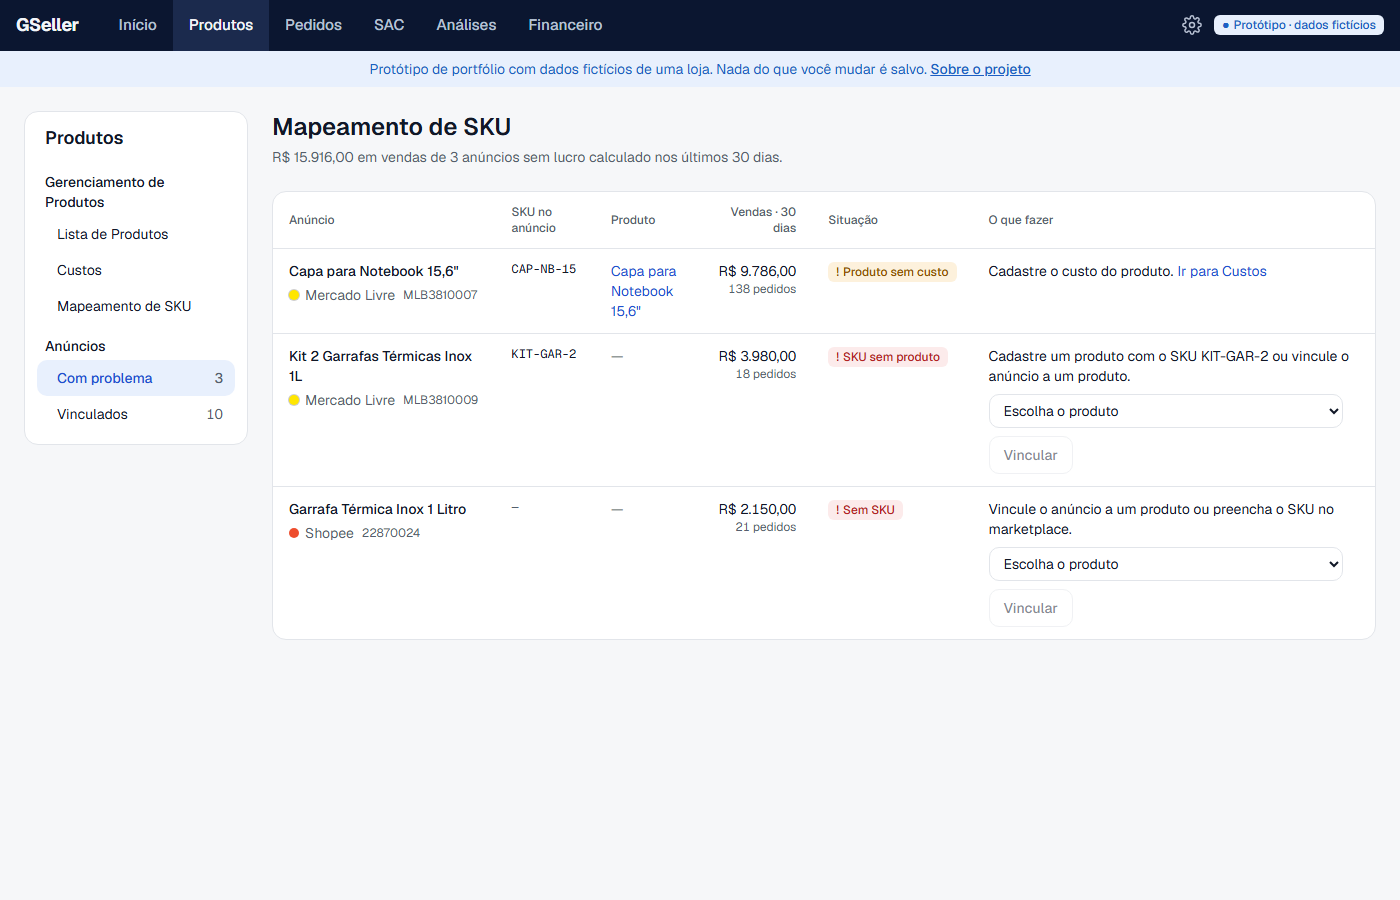
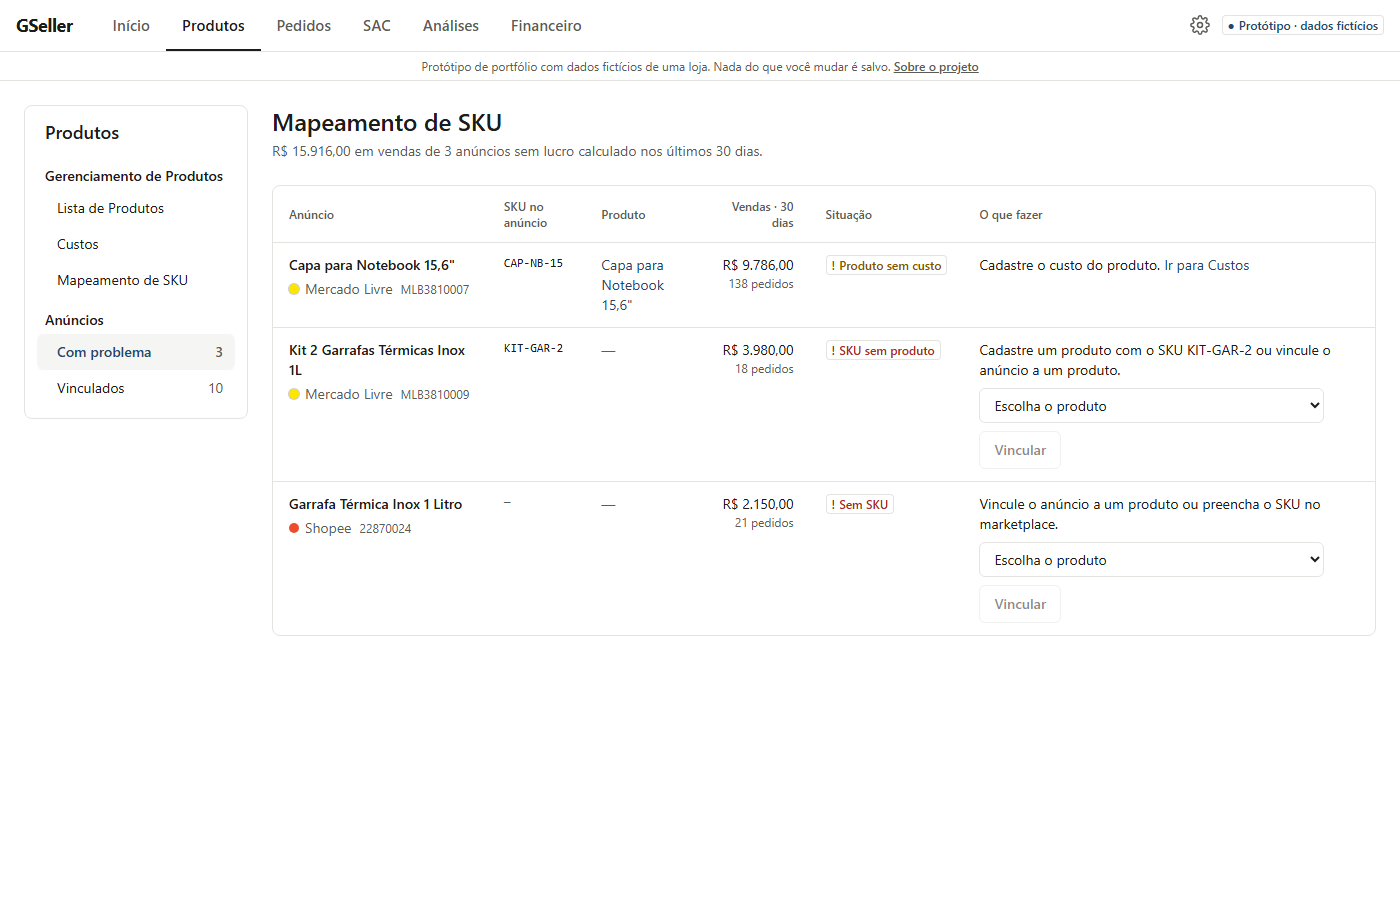
feat(ui): visual mais simples e link público da demonstração

diff --git a/frontend/src/app/globals.css b/frontend/src/app/globals.css
@@ -1,7 +1,8 @@
 @import "tailwindcss";
 
 /*
- * Design System v0.1 — tokens semânticos (Master Plan, Bloco 16).
+ * Design System v0.2 — tokens semânticos (Master Plan, Bloco 16; visual simples da v0.27).
+ * Fundo branco, barra clara, uma cor de destaque discreta, cantos pequenos e fonte do sistema.
  *
  * Os valores ficam em variáveis --ds-* (trocam entre claro/escuro) e são
  * expostos ao Tailwind via @theme. Componentes usam só os nomes semânticos
@@ -9,57 +10,62 @@
  */
 
 :root {
-  --ds-canvas: #f6f7f9;
+  --ds-canvas: #ffffff;
   --ds-surface: #ffffff;
-  --ds-surface-muted: #f0f2f5;
-  --ds-fg: #111827;
-  --ds-fg-muted: #555f6d;
-  --ds-line: #e2e5ea;
+  --ds-surface-muted: #f5f5f3;
+  --ds-fg: #1c1c1a;
+  --ds-fg-muted: #5c5c57;
+  --ds-line: #e3e3df;
 
-  --ds-primary: #1f4fd1;
-  --ds-primary-hover: #1a43b3;
+  --ds-primary: #24486c;
+  --ds-primary-hover: #1a3753;
   --ds-primary-fg: #ffffff;
 
-  --ds-success: #12734f;
-  --ds-success-soft: #e6f4ee;
-  --ds-warning: #8f5200;
-  --ds-warning-soft: #fdf1dc;
-  --ds-danger: #b42323;
-  --ds-danger-soft: #fcebeb;
-  --ds-info: #1d5fc4;
-  --ds-info-soft: #e8f0fd;
+  --ds-success: #22673a;
+  --ds-success-soft: #f5f5f3;
+  --ds-warning: #8a5300;
+  --ds-warning-soft: #f5f5f3;
+  --ds-danger: #a92a22;
+  --ds-danger-soft: #f5f5f3;
+  --ds-info: #24486c;
+  --ds-info-soft: #f5f5f3;
 
   --ds-brand-ml: #ffe600;
   --ds-brand-shopee: #ee4d2d;
 
-  /* Barra superior de módulos (Bloco 60.9): escura nos dois temas. */
-  --ds-nav: #0b1630;
-  --ds-nav-hover: #1b2a4d;
-  --ds-nav-fg: #f3f5f9;
-  --ds-nav-fg-muted: #b8c1d3;
+  /* Barra superior de módulos (Bloco 60.9): clara, separada por uma linha. */
+  --ds-nav: #ffffff;
+  --ds-nav-hover: #f5f5f3;
+  --ds-nav-fg: #1c1c1a;
+  --ds-nav-fg-muted: #5c5c57;
 }
 
 @media (prefers-color-scheme: dark) {
   :root {
-    --ds-canvas: #0d1117;
-    --ds-surface: #151a22;
-    --ds-surface-muted: #1c232d;
-    --ds-fg: #e6e9ee;
-    --ds-fg-muted: #9aa4b2;
-    --ds-line: #2a323d;
+    --ds-canvas: #161615;
+    --ds-surface: #161615;
+    --ds-surface-muted: #21211f;
+    --ds-fg: #e9e9e5;
+    --ds-fg-muted: #a3a39d;
+    --ds-line: #30302d;
 
-    --ds-primary: #7398ff;
-    --ds-primary-hover: #8eabff;
-    --ds-primary-fg: #0d1117;
+    --ds-primary: #9dbbdb;
+    --ds-primary-hover: #b6cde6;
+    --ds-primary-fg: #161615;
 
-    --ds-success: #4cc79a;
-    --ds-success-soft: #12291f;
-    --ds-warning: #f0a83f;
-    --ds-warning-soft: #2e2210;
-    --ds-danger: #f27a77;
-    --ds-danger-soft: #331717;
-    --ds-info: #79abff;
-    --ds-info-soft: #14233b;
+    --ds-success: #7cc191;
+    --ds-success-soft: #21211f;
+    --ds-warning: #e0aa5a;
+    --ds-warning-soft: #21211f;
+    --ds-danger: #ec8a80;
+    --ds-danger-soft: #21211f;
+    --ds-info: #9dbbdb;
+    --ds-info-soft: #21211f;
+
+    --ds-nav: #161615;
+    --ds-nav-hover: #21211f;
+    --ds-nav-fg: #e9e9e5;
+    --ds-nav-fg-muted: #a3a39d;
   }
 }
 
@@ -92,18 +98,18 @@
   --color-brand-ml: var(--ds-brand-ml);
   --color-brand-shopee: var(--ds-brand-shopee);
 
-  --radius-sm: 6px;
-  --radius-md: 10px;
-  --radius-lg: 14px;
-  --radius-xl: 20px;
+  --radius-sm: 4px;
+  --radius-md: 6px;
+  --radius-lg: 8px;
+  --radius-xl: 10px;
 
   --text-highlight: 2rem;
   --text-highlight--line-height: 2.5rem;
   --text-hero: 2.5rem;
   --text-hero--line-height: 3rem;
 
-  --font-sans: var(--font-geist-sans), ui-sans-serif, system-ui, sans-serif;
-  --font-mono: var(--font-geist-mono), ui-monospace, monospace;
+  --font-sans: system-ui, -apple-system, "Segoe UI", Roboto, "Helvetica Neue", Arial, sans-serif;
+  --font-mono: ui-monospace, "SFMono-Regular", Consolas, "Liberation Mono", monospace;
 }
 
 html {

diff --git a/frontend/src/components/app/insight-card.tsx b/frontend/src/components/app/insight-card.tsx
@@ -3,10 +3,10 @@ import { Badge, type Tone } from "@/components/ui/badge";
 import { formatBRLRounded } from "@/lib/format";
 import type { Insight, Severity } from "@/lib/types";
 
-const SEVERITY: Record<Severity, { tone: Tone; icon: string; label: string; border: string }> = {
-  critical: { tone: "danger", icon: "■", label: "Crítico", border: "border-l-danger" },
-  warning: { tone: "warning", icon: "▲", label: "Atenção", border: "border-l-warning" },
-  info: { tone: "info", icon: "●", label: "Oportunidade", border: "border-l-info" },
+const SEVERITY: Record<Severity, { tone: Tone; icon: string; label: string }> = {
+  critical: { tone: "danger", icon: "■", label: "Crítico" },
+  warning: { tone: "warning", icon: "▲", label: "Atenção" },
+  info: { tone: "info", icon: "●", label: "Oportunidade" },
 };
 
 /** Alerta direto: o problema, o número que o comprova e o que fazer (Bloco 17, v0.16). */
@@ -19,9 +19,7 @@ export function InsightCard({
 }) {
   const severity = SEVERITY[insight.severity];
   return (
-    <article
-      className={`rounded-lg border border-l-4 border-line ${severity.border} bg-surface p-4`}
-    >
+    <article className="rounded-lg border border-line bg-surface p-4">
       <header className="flex items-center gap-2">
         <Badge tone={severity.tone} icon={severity.icon}>
           {severity.label}
@@ -45,10 +43,7 @@ export function InsightCard({
         {insight.title} <span className="font-normal text-fg-muted">· {insight.detail}</span>
       </h3>
       <p className="mt-1 text-sm">
-        <span aria-hidden="true" className="text-primary">
-          →{" "}
-        </span>
-        {insight.action}
+        <span className="font-medium">O que fazer:</span> {insight.action}
       </p>
     </article>
   );

diff --git a/frontend/src/components/app/top-nav.tsx b/frontend/src/components/app/top-nav.tsx
@@ -115,7 +115,9 @@ export function TopNav() {
                 aria-current={active ? "page" : undefined}
                 className={cx(
                   "block whitespace-nowrap px-4 py-3.5 text-[0.95rem] font-medium",
-                  active ? "bg-nav-hover text-nav-fg" : "text-nav-fg-muted hover:text-nav-fg",
+                  active
+                    ? "text-nav-fg shadow-[inset_0_-2px_0_currentColor]"
+                    : "text-nav-fg-muted hover:text-nav-fg",
                 )}
               >
                 {module.label}
@@ -125,7 +127,7 @@ export function TopNav() {
                   <div className="flex gap-8">
                     {module.groups.map((group) => (
                       <div key={group.title}>
-                        <p className="mb-2 border-l-2 border-primary pl-2 text-sm text-fg-muted">
+                        <p className="mb-2 px-2 text-xs font-medium text-fg-muted uppercase tracking-wide">
                           {group.title}
                         </p>
                         <ul className="space-y-1">

diff --git a/frontend/src/app/(app)/layout.tsx b/frontend/src/app/(app)/layout.tsx
@@ -13,7 +13,7 @@ export default function AppLayout({ children }: LayoutProps<"/">) {
         Pular para o conteúdo
       </a>
 
-      <header className="sticky top-0 z-30 bg-nav text-nav-fg">
+      <header className="sticky top-0 z-30 border-b border-line bg-nav text-nav-fg">
         <div className="flex items-center gap-2 px-4">
           <Link href="/dashboard" className="mr-4 shrink-0 text-lg font-bold tracking-tight">
             GSeller
@@ -26,7 +26,10 @@ export default function AppLayout({ children }: LayoutProps<"/">) {
         </div>
       </header>
 
-      <div role="note" className="bg-info-soft px-4 py-2 text-center text-sm text-info">
+      <div
+        role="note"
+        className="border-b border-line px-4 py-1.5 text-center text-xs text-fg-muted"
+      >
         Protótipo de portfólio com dados fictícios de uma loja. Nada do que você mudar é salvo.{" "}
         <Link href="/sobre" className="font-medium underline">
           Sobre o projeto

diff --git a/frontend/src/components/ui/badge.tsx b/frontend/src/components/ui/badge.tsx
@@ -5,11 +5,11 @@ import type { Tone } from "@/lib/types";
 export type { Tone };
 
 const TONE_CLASS: Record<Tone, string> = {
-  neutral: "bg-surface-muted text-fg-muted",
-  success: "bg-success-soft text-success",
-  warning: "bg-warning-soft text-warning",
-  danger: "bg-danger-soft text-danger",
-  info: "bg-info-soft text-info",
+  neutral: "text-fg-muted",
+  success: "text-success",
+  warning: "text-warning",
+  danger: "text-danger",
+  info: "text-info",
 };
 
 /** Status nunca depende só da cor: sempre ícone + texto (Bloco 16.4). */
@@ -27,7 +27,7 @@ export function Badge({
   return (
     <span
       className={cx(
-        "inline-flex items-center gap-1 whitespace-nowrap rounded-sm px-2 py-0.5 text-xs font-medium",
+        "inline-flex items-center gap-1 whitespace-nowrap rounded-sm px-1.5 py-0.5 text-xs font-medium ring-1 ring-line ring-inset",
         TONE_CLASS[tone],
         className,
       )}

diff --git a/frontend/src/app/layout.tsx b/frontend/src/app/layout.tsx
@@ -1,16 +1,5 @@
 import type { Metadata } from "next";
-import { Geist, Geist_Mono } from "next/font/google";
 import "./globals.css";
-
-const geistSans = Geist({
-  variable: "--font-geist-sans",
-  subsets: ["latin"],
-});
-
-const geistMono = Geist_Mono({
-  variable: "--font-geist-mono",
-  subsets: ["latin"],
-});
 
 export const metadata: Metadata = {
   title: { default: "GSeller", template: "%s · GSeller" },
@@ -19,7 +8,7 @@ export const metadata: Metadata = {
 
 export default function RootLayout({ children }: LayoutProps<"/">) {
   return (
-    <html lang="pt-BR" className={`${geistSans.variable} ${geistMono.variable} h-full antialiased`}>
+    <html lang="pt-BR" className="h-full antialiased">
       <body className="min-h-full font-sans">{children}</body>
     </html>
   );

diff --git a/frontend/src/app/(app)/sobre/page.tsx b/frontend/src/app/(app)/sobre/page.tsx
@@ -124,6 +124,16 @@ export default function AboutPage() {
           </li>
           <li>Lint, tipos, código morto e testes rodam no CI em todo pull request.</li>
           <li>
+            Código aberto em{" "}
+            <a
+              href="https://github.com/GustavoHMS21/GSeller"
+              className="font-medium text-primary hover:underline"
+            >
+              github.com/GustavoHMS21/GSeller
+            </a>
+            .
+          </li>
+          <li>
             Login e cobrança existem no código, mas ficam fora do protótipo. A integração real com
             os marketplaces não foi feita.
           </li>

diff --git a/MASTER_PLAN_SAAS_MARKETPLACE_MVP.md b/MASTER_PLAN_SAAS_MARKETPLACE_MVP.md
@@ -2,7 +2,7 @@
 ## Mercado Livre + Shopee | MVP em 14 dias
 
 > **Status:** Documento mestre vivo  
-> **Versão:** 0.25 — Protótipo só com demonstração, preço mínimo e página do case  
+> **Versão:** 0.27 — Demonstração pública e visual mais simples (issues #22 e #73)  
 > **Decisão de 2026-10-15:** o GSeller segue como **protótipo e projeto de portfólio**, sem produção e sem venda (Bloco 60.10).  
 > **Agentes de IA de qualquer modelo:** antes de qualquer tarefa, leia o **Bloco 53** (regras obrigatórias de trabalho).  
 > **Objetivo:** colocar um MVP funcional nas mãos de usuários reais em até 14 dias.  
@@ -1396,6 +1396,15 @@ Referência conceitual:
 - fintech;
 - dados fáceis de ler;
 - alta densidade apenas onde necessária.
+
+**Visual simples (decisão do mantenedor, 2026-10-15, v0.27):** o painel tinha cara de template gerado por IA (fonte Geist, azul saturado, barra azul-marinho, fundo cinza com cartões muito arredondados, etiquetas pastel, alertas com faixa colorida à esquerda). Ficou assim, só por tokens e componentes-base:
+
+- fonte do sistema (sem fonte baixada), fundo branco e barra superior clara com a aba ativa sublinhada;
+- uma única cor de destaque, azul discreto (`#24486c`), para links e botão principal;
+- cantos de 4 a 8 px;
+- etiquetas só com texto colorido, ícone e contorno neutro, sem fundo pastel;
+- alertas sem faixa colorida; a ação vem rotulada como "O que fazer:";
+- faixa do protótipo em texto pequeno e cinza, no lugar do azul.
 
 ## 16.2 Princípios
 
@@ -5023,6 +5032,8 @@ Na demonstração, o envio da resposta é simulado na tela.
 - A barra superior mostra "Protótipo · dados fictícios" no lugar de conta e plano; o card do plano no Início virou o link para o case.
 - O código de login, cobrança, e-mails e backend **fica no repositório**, fora do caminho. O que só servia à barra de conta (sessão anônima do modo demonstração, card do plano, `getMe`, saída da conta) foi removido, porque ficou sem uso (Knip).
 - Até sábado entram só: página do case (`/sobre`), README com prints (`docs/prints/`) e preço mínimo (61.7).
+- **Demonstração pública (decisão do mantenedor, 2026-10-15):** https://g-seller.vercel.app, na Vercel ligada ao GitHub (pasta `frontend`, sem variáveis de ambiente). Cada PR ganha um link de teste e cada merge na `main` atualiza o site (#22). Não é produção: só dados fictícios, sem conta e sem nada salvo.
+- **Issues (2026-10-15):** fechadas as que só serviam à produção ou à venda, com o motivo em cada uma. Abertas ficam qualidade de código (#14, #15, #16, #17, #20), dependências (#23) e a integração com o Mercado Livre (#10, a decidir).
 
 ---
 
@@ -5265,6 +5276,17 @@ Essa sequência evita começarmos pela API e descobrirmos depois que construímo
 ---
 
 # CHANGELOG
+
+## v0.27
+
+- decisão (2026-10-15): visual mais simples, sem cara de template de IA: fonte do sistema, fundo branco, barra clara, uma cor de destaque discreta, cantos menores, etiquetas sem fundo pastel e alertas sem faixa colorida (issue #73, Bloco 16.1);
+- prints do README refeitos com o visual novo.
+
+## v0.26
+
+- decisão (2026-10-15): demonstração pública em https://g-seller.vercel.app, na Vercel ligada ao GitHub, com link de teste por PR e atualização a cada merge na `main` (issue #22, Bloco 60.10);
+- link no README e repositório na página do case;
+- issues fora do protótipo fechadas com o motivo (Bloco 60.10).
 
 ## v0.25
 

diff --git a/README.md b/README.md
@@ -4,9 +4,11 @@
 
 Protótipo de portfólio de um painel para quem vende no Mercado Livre e na Shopee. Ele mostra o lucro de cada produto, pedido e anúncio, já descontados comissão, frete, Ads, devolução, imposto e custo, e diz o que corrigir. Todos os dados são fictícios.
 
+**Abra a demonstração:** https://g-seller.vercel.app
+
 ![Início](docs/prints/inicio.png)
 
-## Rodar em dois comandos
+## Rodar localmente
 
 Precisa de Node.js 24.
 
